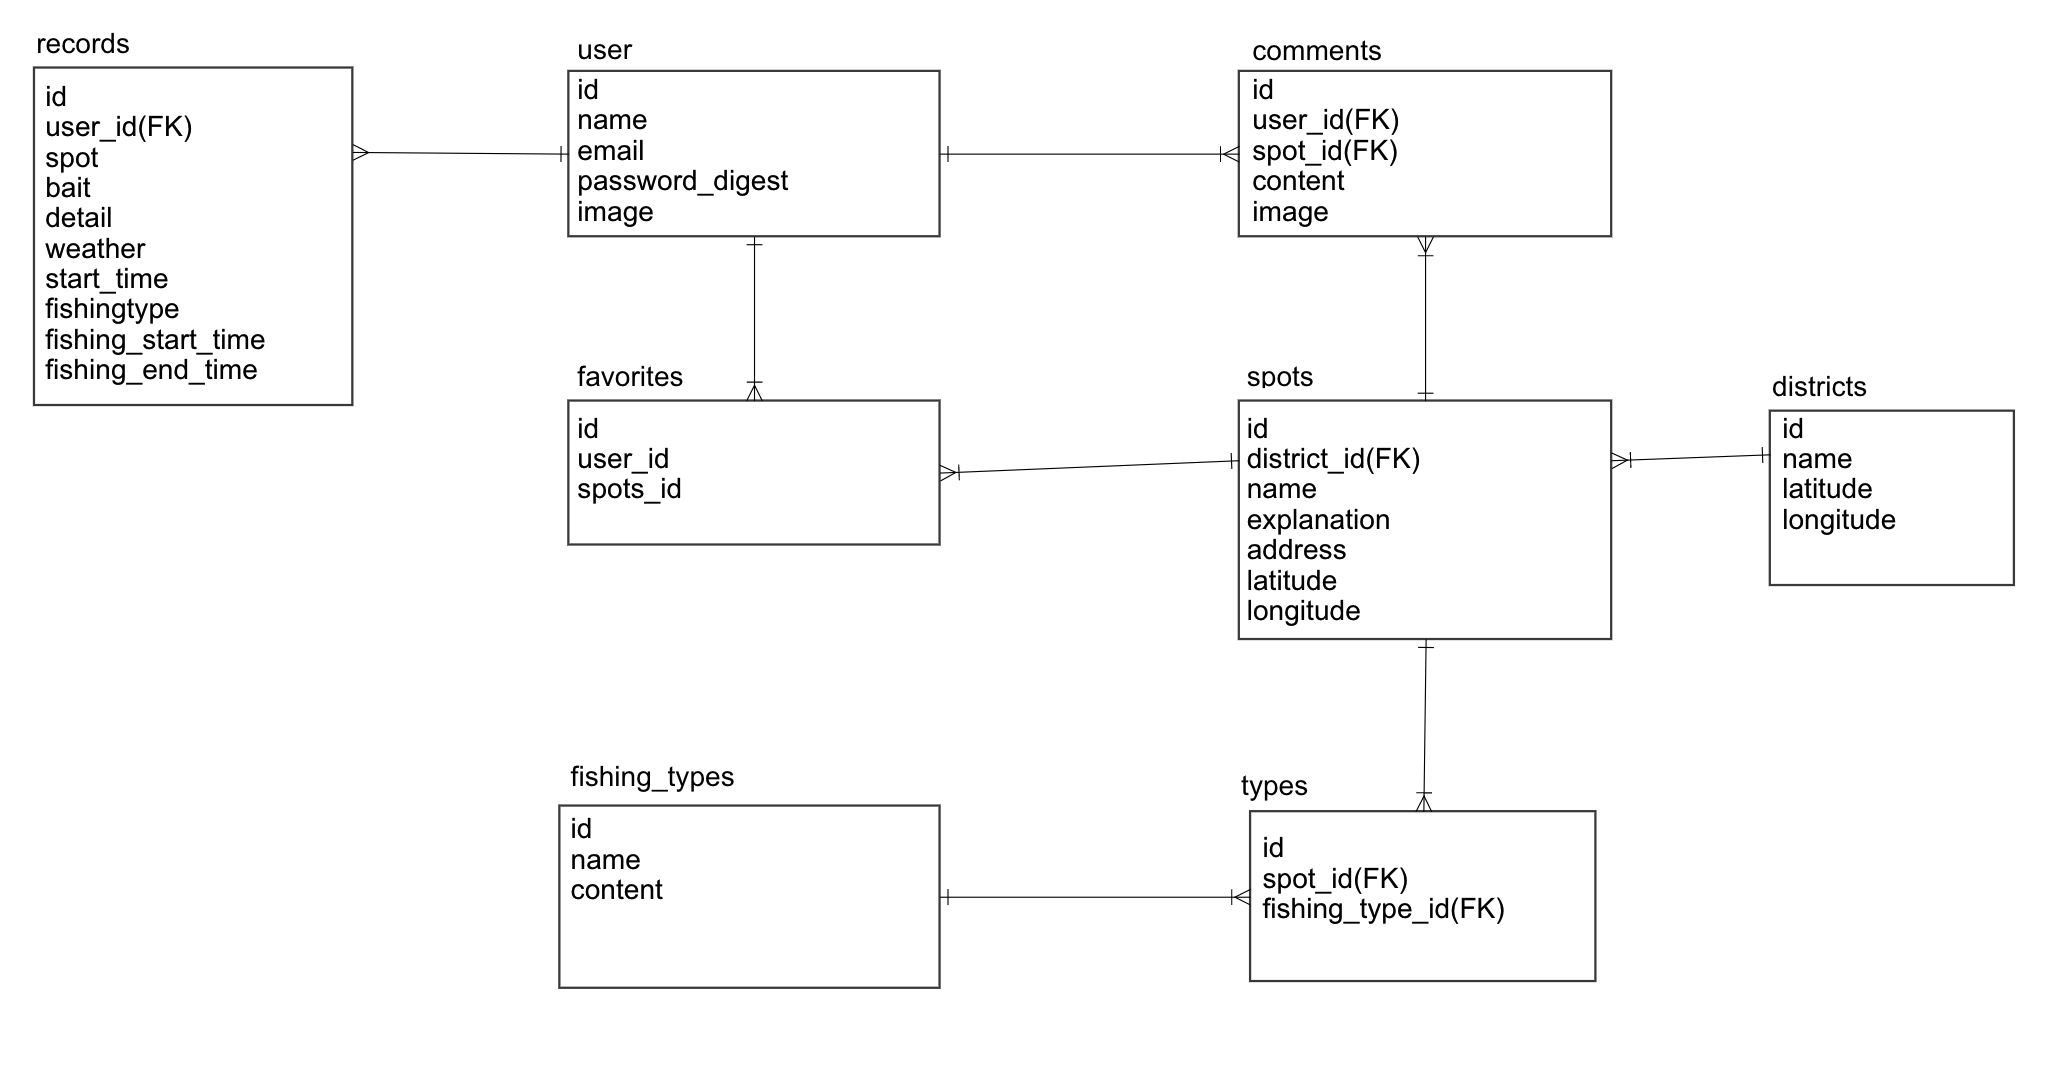
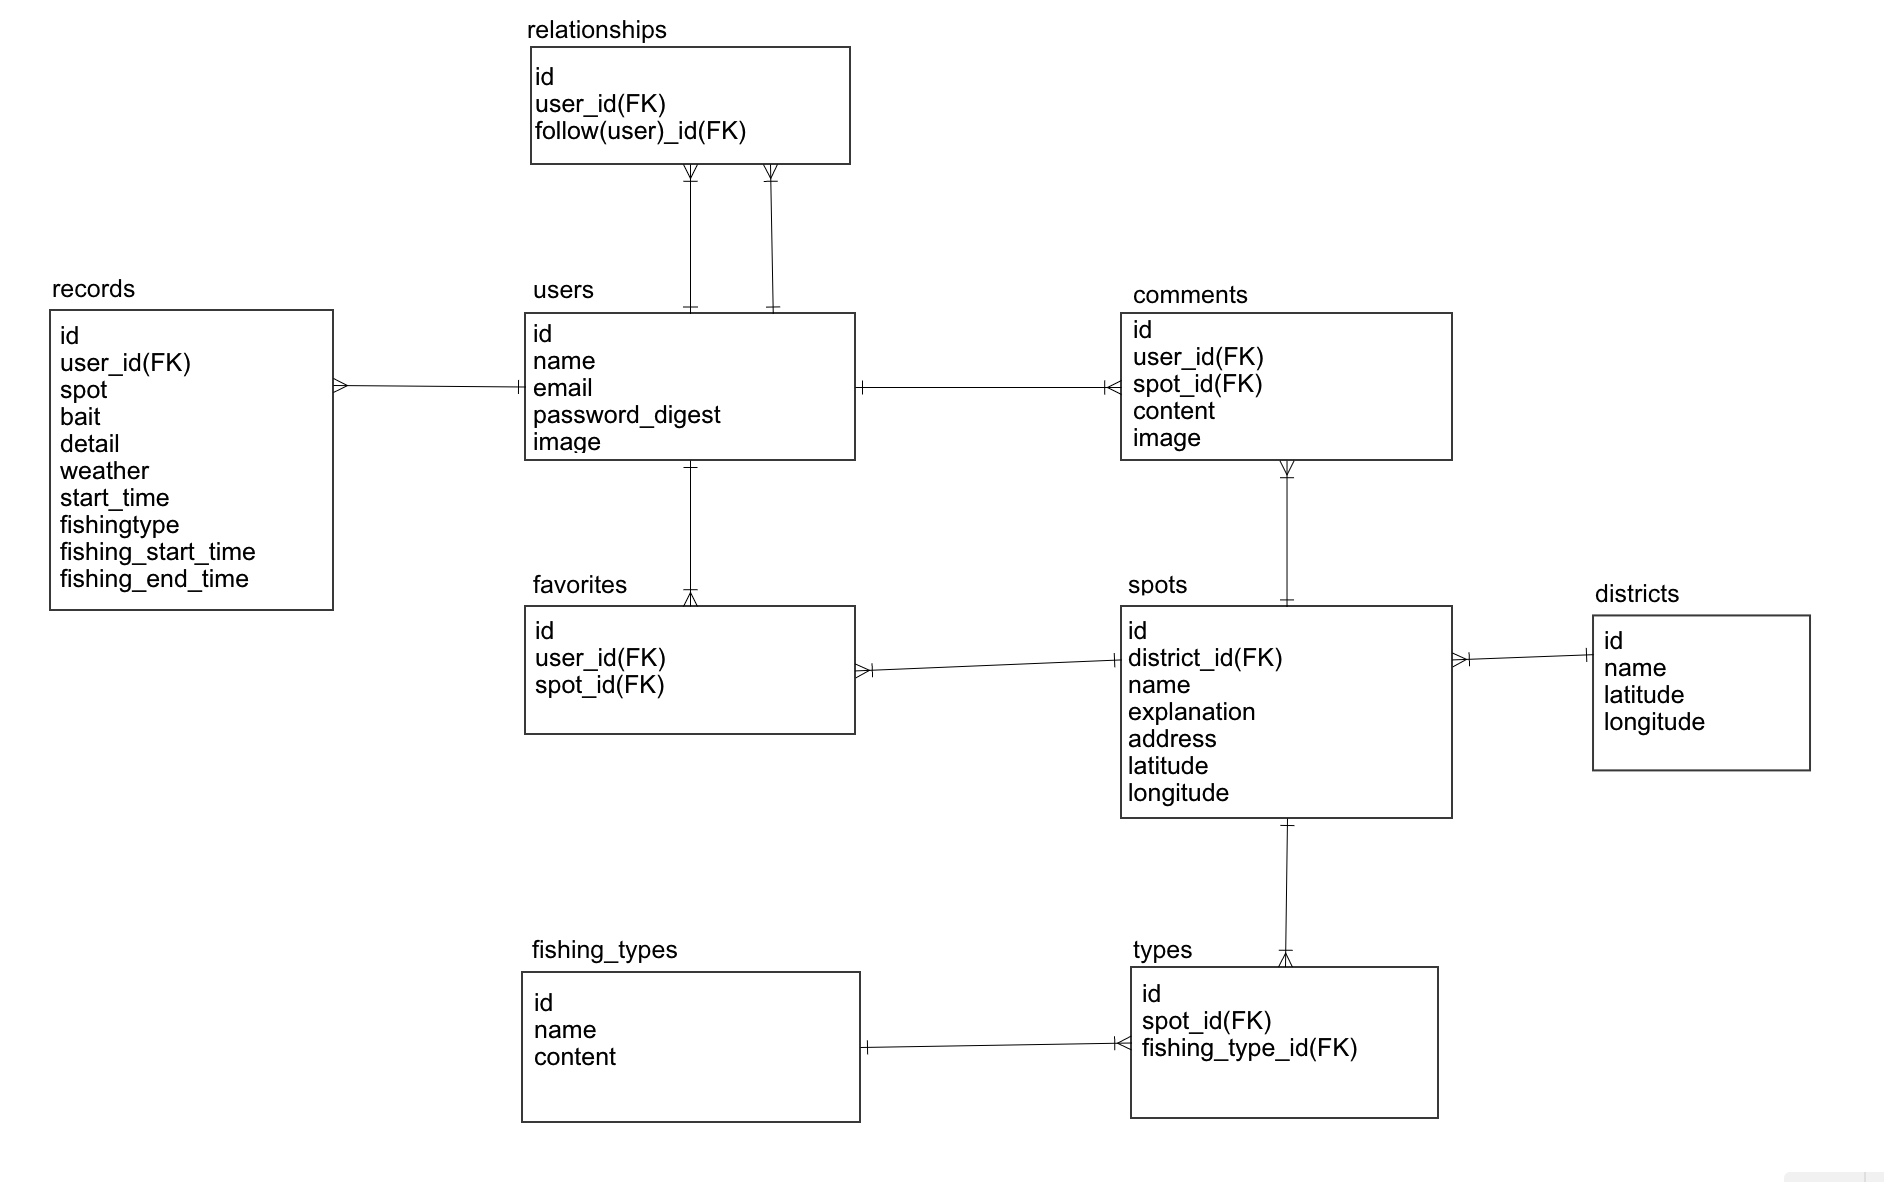
“テスト追加”

diff --git a/app/assets/stylesheets/user.scss b/app/assets/stylesheets/user.scss
@@ -151,7 +151,7 @@ a.btn-radius-solid:hover {
   bottom: 16px;
   background-color: white;
   overflow-y: scroll;
-  max-height: 690px;
+  max-height: 460px;
 }
 
 .follow_user {
@@ -178,6 +178,24 @@ a.btn-radius-solid:hover {
   margin-left: 10px;
   font-weight: bold;
   color: black;
+}
+
+.follow_none {
+  padding: 105px 0;
+}
+
+.follow_none p {
+  font-size: 20px;
+  font-weight: bold;
+}
+
+.comment_none {
+  padding: 20px 0;
+}
+
+.comment_none p {
+  font-size: 20px;
+  font-weight: bold;
 }
 
 /*edit*/

diff --git a/app/assets/stylesheets/spot.scss b/app/assets/stylesheets/spot.scss
@@ -138,12 +138,15 @@
 }
 
 .search_result {
+  padding-left: 30px;
   font-size: 25px;
   margin-bottom: 15px;
 }
 
 .none {
-  padding-left: 20px;
+  position: relative;
+  bottom: 10px;
+  padding-left: 40px;
   font-size: 23px;
 }
 
@@ -151,5 +154,4 @@
   position: relative;
   font-size: 20px;
   bottom: 10px;
-  right: 10px;
 }

diff --git a/app/assets/stylesheets/toppage.scss b/app/assets/stylesheets/toppage.scss
@@ -100,7 +100,11 @@
   margin-bottom: 25px;
   padding: 0.5em 2.9em 0.5em;
   background-color: #badcad;
-  box-shadow: 0 0 10px 10px #badcad;
+  box-shadow: 0 0 5px 5px #badcad;
+}
+
+.list span {
+  font-size: 18px;
 }
 
 .spot_title {

diff --git a/spec/requests/relationships_request_spec.rb b/spec/requests/relationships_request_spec.rb
@@ -1,19 +1,56 @@
 require 'rails_helper'
 
-RSpec.describe "Relationships", type: :request do
+RSpec.describe 'Relationships', type: :request do
+  before do
+    @user = create(:user)
+    @follow = create(:user)
+  end
 
-  describe "GET /create" do
-    it "returns http success" do
-      get "/relationships/create"
-      expect(response).to have_http_status(:success)
+  describe '#create' do
+    context '未ログイン状態のとき' do
+      it 'フォローできないこと' do
+        expect do
+          post relationships_path, params: { follow_id: @follow.id }, xhr: true
+        end.to change(Relationship.all, :count).by(0)
+      end
+    end
+
+    context 'ログイン状態のとき' do
+      it 'フォローできること' do
+        sign_in(@user)
+        expect do
+          post relationships_path, params: { follow_id: @follow.id }, xhr: true
+        end.to change(Relationship.all, :count).by(1)
+      end
+
+      it '自分にはフォローできないこと' do
+        sign_in(@user)
+        expect do
+          post relationships_path, params: { follow_id: @user.id }, xhr: true
+        end.to change(Relationship.all, :count).by(0)
+      end
     end
   end
 
-  describe "GET /destroy" do
-    it "returns http success" do
-      get "/relationships/destroy"
-      expect(response).to have_http_status(:success)
+  describe '#destroy' do
+    before do
+      @relationship = create(:relationship, user: @user, follow: @follow)
+    end
+    context '未ログイン状態のとき' do
+      it 'フォロー解除できないこと' do
+        expect do
+          delete relationship_path(@relationship), params: { follow_id: @follow.id }, xhr: true
+        end.to change(Relationship.all, :count).by(0)
+      end
+    end
+
+    context 'ログイン状態のとき' do
+      it 'フォローを解除できること' do
+        sign_in(@user)
+        expect do
+          delete relationship_path(@relationship), params: { follow_id: @follow.id }, xhr: true
+        end.to change(Relationship.all, :count).by(-1)
+      end
     end
   end
-
 end

diff --git a/spec/features/relationships_spec.rb b/spec/features/relationships_spec.rb
@@ -1,0 +1,44 @@
+require 'rails_helper'
+
+RSpec.feature 'Relationships', type: :feature do
+  before do
+    @user = create(:user,
+                   name: 'test',
+                   email: 'test@example.com',
+                   password: 'password',
+                   password_confirmation: 'password'
+                  )
+
+    @other = create(:user)
+  end
+
+  scenario 'ユーザーをフォロー、フォロー解除する' do
+    # トップページを開く
+    visit root_path
+
+    # ログインページへ
+    click_link 'ログイン'
+
+    # ログインする
+    fill_in 'メールアドレス', with: 'test@example.com'
+    fill_in 'user[password]', with: 'password'
+    click_button 'ログイン'
+    expect(page).to have_text('ログインしました。')
+
+    # otherのユーザーページへ
+    visit user_path(@other)
+    expect(page).to have_text @other.name
+
+    # フォローする
+    expect do
+      click_button 'フォロー'
+      expect(page).to have_text("#{@other.name}さんをフォローしました。")
+    end.to change(Relationship.all, :count).by(1)
+
+    # フォロー解除する
+    expect do
+      click_button 'フォロー中'
+      expect(page).to have_text("#{@other.name}さんのフォローを解除しました。")
+    end.to change(Relationship.all, :count).by(-1)
+  end
+end

diff --git a/spec/models/relationship_spec.rb b/spec/models/relationship_spec.rb
@@ -1,5 +1,33 @@
 require 'rails_helper'
 
 RSpec.describe Relationship, type: :model do
-  pending "add some examples to (or delete) #{__FILE__}"
+  let(:user1) { create(:user) }
+  let(:user2) { create(:user) }
+  let(:relationship) { create(:relationship) }
+
+  it '有効なファクトリを持つこと' do
+    expect { create(:relationship) }.to change(Relationship.all, :count).by(1)
+  end
+
+  it 'ユーザー、フォローがあれば有効であること' do
+    relationship = Relationship.new(
+      user: user1,
+      follow: user2
+    )
+    expect(relationship).to be_valid
+  end
+
+  describe '存在性の検証' do
+    it 'ユーザーがいなければ無効であること' do
+      relationship.user = nil
+      relationship.valid?
+      expect(relationship.errors[:user]).to include('を入力してください')
+    end
+
+    it 'フォローがいなければ無効であること' do
+      relationship.follow = nil
+      relationship.valid?
+      expect(relationship.errors[:follow]).to include('を入力してください')
+    end
+  end
 end

diff --git a/spec/models/user_spec.rb b/spec/models/user_spec.rb
@@ -2,6 +2,7 @@ require 'rails_helper'
 
 RSpec.describe User, type: :model do
   let(:user) { create(:user) }
+  let(:user2) { create(:user) }
   let(:spot) { create(:spot) }
   let(:comment) { create(:comment) }
 
@@ -163,6 +164,21 @@ RSpec.describe User, type: :model do
       create(:favorite, user_id: user.id, spot_id: spot.id)
       user.favorite(spot)
       expect(user.favorite(spot)).to be_truthy
+    end
+
+    it 'フォローすることができること' do
+      expect { user.follow(user2) }.to change(user2.followers, :count).by(1)
+    end
+
+    it 'フォローを解除することができること' do
+      user.follow(user2)
+      expect { user.unfollow(user2) }.to change(user2.followers, :count).by(-1)
+    end
+
+    it 'フォローしてたらtrue,フォローしてなかったらfalseを返すこと' do
+      user.follow(user2)
+      expect(user.following?(user2)).to be_truthy
+      expect(user.following?(user)).to be_falsy
     end
 
     it 'ゲストユーザーの作成ができる' do

diff --git a/spec/requests/users_spec.rb b/spec/requests/users_spec.rb
@@ -12,10 +12,10 @@ RSpec.describe 'Users', type: :request do
   end
 
   describe 'GET #show' do
-    context 'ユーザーが存在する場合' do
+    context 'ユーザーが存在するとき' do
       before do
-        user = create(:user)
-        get user_url user.id
+        sign_in(user)
+        get user_path(user)
       end
 
       it 'リクエストが成功すること' do
@@ -73,7 +73,7 @@ RSpec.describe 'Users', type: :request do
   end
 
   describe 'POST #create' do
-    describe 'パラメータが妥当な場合' do
+    describe 'パラメータが妥当なとき' do
       before do
         post user_registration_path
       end
@@ -116,7 +116,7 @@ RSpec.describe 'Users', type: :request do
       end
     end
 
-    context 'ゲストユーザーの場合' do
+    context 'ゲストユーザーのとき' do
       before do
         sign_in(@guest_user)
         patch user_registration_path, params: { user: attributes_for(:user).merge(password: 'testtest') }

diff --git a/app/controllers/relationships_controller.rb b/app/controllers/relationships_controller.rb
@@ -5,14 +5,14 @@ class RelationshipsController < ApplicationController
   def create
     user = User.find(params[:follow_id])
     current_user.follow(user)
-    flash[:success] = 'ユーザーをフォローしました。'
+    flash[:success] = "#{user.name}さんをフォローしました。"
     redirect_back(fallback_location: user)
   end
 
   def destroy
     user = User.find(params[:follow_id])
     current_user.unfollow(user)
-    flash[:success] = 'ユーザーのフォローを解除しました。'
+    flash[:success] = "#{user.name}さんのフォローを解除しました。"
     redirect_back(fallback_location: user)
   end
 end

diff --git a/spec/features/favorites_spec.rb b/spec/features/favorites_spec.rb
@@ -54,12 +54,13 @@ RSpec.feature 'Favorites', type: :feature do
 
     # 詳細ページでいいねを解除する
     expect do
-      click_button 'お気に入り解除'
+      click_button 'お気に入り中'
       expect(page).to have_text('お気に入り登録を解除しました。')
     end.to change(Favorite.all, :count).by(-1)
     
-    # スポット詳細ページへ
-    click_link @user.name.to_s
+    # ユーザー詳細ページへ
+    click_link 'ユーザー'
+    click_link 'マイプロフィール'
 
     # スポット詳細ページへ
     click_link 'マイプロフィール'

diff --git a/db/schema.rb b/db/schema.rb
@@ -42,10 +42,10 @@ ActiveRecord::Schema.define(version: 2021_01_01_063940) do
   end
 
   create_table "fishing_types", options: "ENGINE=InnoDB DEFAULT CHARSET=utf8mb4 COLLATE=utf8mb4_0900_ai_ci", force: :cascade do |t|
-    t.string "name", default: "", null: false
-    t.string "content", default: "", null: false
+    t.string "content"
     t.datetime "created_at", precision: 6, null: false
     t.datetime "updated_at", precision: 6, null: false
+    t.string "name"
   end
 
   create_table "records", options: "ENGINE=InnoDB DEFAULT CHARSET=utf8mb4 COLLATE=utf8mb4_0900_ai_ci", force: :cascade do |t|

diff --git a/spec/features/users_spec.rb b/spec/features/users_spec.rb
@@ -24,9 +24,7 @@ RSpec.feature 'Users', type: :feature do
     expect(page).to have_text('ログインしました。')
 
     # ユーザー詳細ページへ
-    click_link @user.name.to_s
-
-    # ユーザー詳細ページへ
+    click_link 'ユーザー'
     click_link 'マイプロフィール'
 
     # ユーザー編集ページへ
